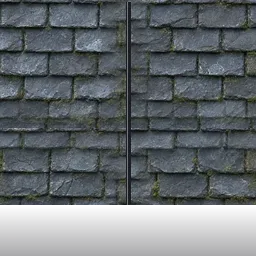
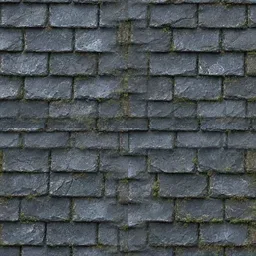
fix(vs): G3 roofed buildings and sandbag emplacements
Render wall masses as shingle roofs with footprint ridge/eaves (no
baked UV stripe bands). Stack sandbag prop sprites on cover rims,
drop threat-slot debug marks in G3, and warm lantern pools for
moonlit yard mood.

Changed region(s): [[0.0, 0.0, 1.0, 1.0]]

diff --git a/ambush_vs/scripts/build_g3_assets.py b/ambush_vs/scripts/build_g3_assets.py
@@ -231,18 +231,11 @@ def make_high_edge_trim(size: int = 64) -> Image.Image:
 
 
 def add_roof_detail(im: Image.Image) -> Image.Image:
-	"""Ridge line + eaves darkening so high cells read as roofs, not grey fills."""
-	im = im.copy()
-	d = ImageDraw.Draw(im)
-	w, h = im.size
-	cx = w // 2
-	# ridge
-	d.line([(cx, 2), (cx, h - 2)], fill=(28, 30, 36, 255), width=max(2, w // 48))
-	d.line([(cx - 1, 2), (cx - 1, h - 2)], fill=(55, 58, 66, 180), width=1)
-	# eaves strip (south / bottom in top-down)
-	for y in range(h - h // 5, h):
-		a = int(90 * (y - (h - h // 5)) / max(1, h // 5))
-		d.line([(0, y), (w, y)], fill=(10, 10, 14, a))
+	"""Keep roof face seamless for world-UV. Ridge/eaves are drawn per-building at runtime.
+
+	Do NOT bake horizontal eaves bands into the tile — with world-space UV those
+	repeat every few cells and read as glitchy dark stripes.
+	"""
 	return im
 
 

diff --git a/.cursor/docs/VS_G3_ART_20261017.md b/.cursor/docs/VS_G3_ART_20261017.md
@@ -39,6 +39,13 @@ chatgpt:unavailable（Cloud Agent；无网页 ChatGPT 桥）
 4. **单位** ≈1.6× + 软落影 + 全队黄环
 5. **灯笼**更小、更暖、仅 3 处
 
+### 续修（建筑物 / 沙袋 / 氛围）
+
+1. **建筑物**：墙体/高地/structure 一律 slate/shingle 屋面；去掉纹理内 eaves 条带（防世界 UV 横纹）；足迹脊线+地面檐影+轮廓
+2. **沙袋**：props 精灵交错堆叠；仅 cover 外沿连线（避免地毯格）
+3. **去调试感**：G3 不画 threat_slot 红 X / high_edge 黄框
+4. **氛围**：地面略压暗；2–3 处暖灯笼
+
 ### 续修（clip + 地面映射）
 
 1. **扇区裁剪**：`MapHost` → `SubViewportContainer`/`SubViewport` 硬裁切；楔形点钳制到地图矩形（不再盖住右侧 UI）
